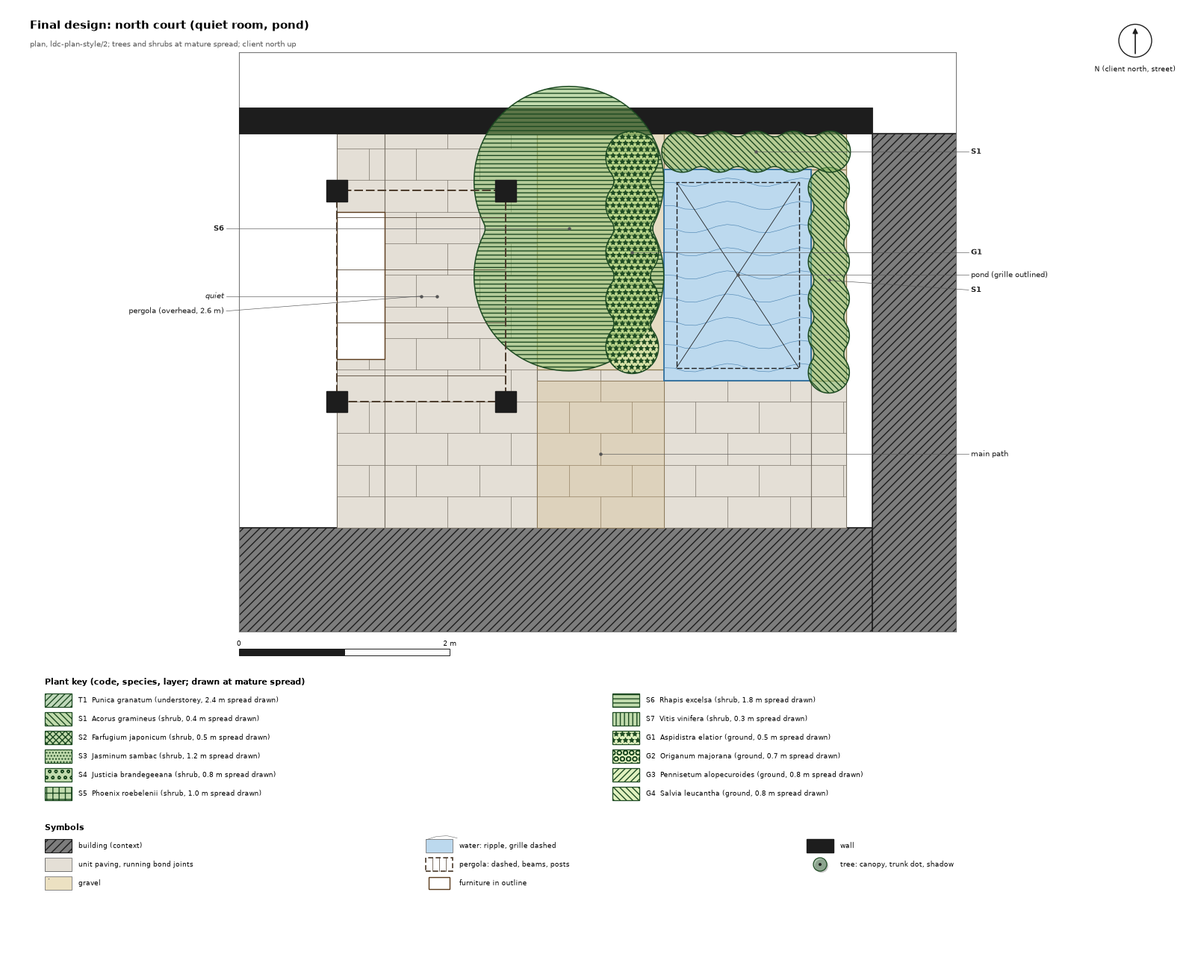
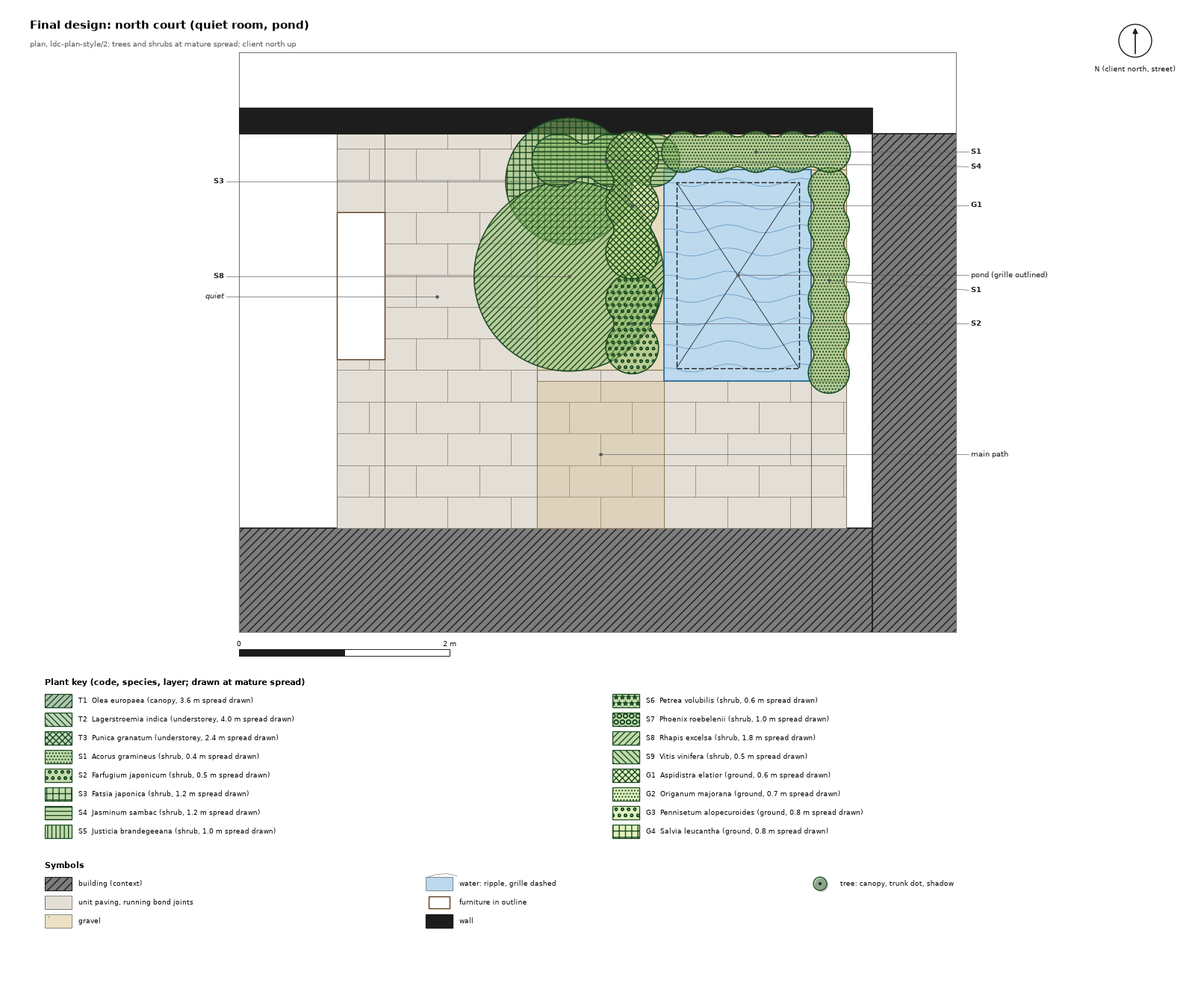
garden: report generator for shade trees, tests, lessons

diff --git a/src/archpipe/landscape/concept/final_report.py b/src/archpipe/landscape/concept/final_report.py
@@ -14,18 +14,19 @@ def main():
     d = json.load(open(OUT / "final.json"))
     m, f = d["metrics"], d["fire"]
     L = ["# Final garden design: concept B adapted (LDG round 2, 2026-11-22)", "",
-         "Client decisions applied: concept B adapted; shared gas fire pit on the west line; west screen tall except an opening at the pit; grape vine on the dining pergola; both ponds kept; "
+         "Client decisions applied: concept B adapted; shared gas fire pit on the west line; west screen tall except an opening at the pit; **round 3 (client 2026-11-22): trimmed shade trees instead of pergolas, deciduous preferred (sun in Dec-Feb welcome), layered planting everywhere**; both ponds kept; "
          "mirrored visualisation of the south garden on the sister plot (viewing only). Numbers below are generated from `final.json`; `layout-final.json` is the design, `layout-visualisation.json` is the mirror (excluded everywhere).", "",
          f"**Result: {len(d['hard_fails'])} hard failures.** Tally {d['tally']}. LDK `LS-FIRE-STRUCT` (2.0 m open-fire floor, a wood-fire bylaw) is reported as a warning for the pit and replaced by the manuals' own clearances (see Fire pit); "
          "the client's screen opening is recorded as a visible waiver (`LDG-PRIV-OPENING`). Critic findings are listed, not gated.", ""]
     L += ["## The design in one paragraph", "",
-          "South garden (5.71 x 9.32 m): the **social terrace** at the west. The flush gas fire pit (0.9 m envelope) is centred ON the west line; the 2.1 m screen stops 1.25 m from its edge on both sides, an opening of "
-          "3.4 m sized to the table's chairs that face the fire (ten at the extended table: 3.0 m long, 1.2 m clear). The dining table (8, extending to 10) sits 2.1 m from the pit under a louvred, non-combustible pergola carrying a **grape vine**; "
-          "the BBQ stand is 2 m from everything; a built-in bench (3 seats) and a quiet bench (2 seats) run along the rear wall under a second pergola; a 1.5 m deep planted mass with the pomegranate and a herb strip closes the east, so the **quiet room** (east yard: bench under a pergola facing a flush koi pond) lies behind it, reached along the house wall. "
-          "North court: the second **quiet room** (bench niche under a pergola, planted screen, flush koi pond with shade foliage). Both ponds are kept for now.", ""]
+          "South garden (5.71 x 9.32 m): the **social terrace** at the west. The flush gas fire pit (0.9 m envelope) is centred ON the west line; the 2.1 m screen stops 1.25 m from its edge on both sides (grape on the north stub, sambac jasmine on the south stub, each in a 1.3 m deep bed). "
+          "The BBQ stand place and a standing area sit between pit and table; the dining table (8, extending to 10) moved east to b 4.05-4.95 so that **one deciduous crape myrtle (pruned multi-stem head, 4.0 m, leaning toward the table) is its roof**; "
+          "the floor under both crowns is permeable gravel (LS-ROOTZONE keeps paving out of every dripline). A built-in bench (2 seats) and a quiet bench (2 seats) run along the rear wall under a pruned **evergreen olive** (year-round overhead privacy where winter sun is small anyway); "
+          "the pomegranate stays as the understorey fruit tree. A planted edge runs along the south wall (climbers on the wall face), a planted mass closes the east. "
+          "East yard: the quiet room (bench, flush koi pond) under a smaller pruned olive. North court: the second quiet room (bench niche, planted screen, flush koi pond with shade foliage); no tree fits there (see Layers). Both ponds are kept for now.", ""]
     L += ["## Fire pit on the west line", "",
           f"Position: centre at the west line (b 0.0), 2.8 m from the house face and 2.9 m from the rear fence. Screen opening a {d['fire']['opening_a'][0]}-{d['fire']['opening_a'][1]} m along the line; each screen end is {f['design_side_clearance_mm']} mm from the pit edge, "
-          f"nothing combustible (planting, vine, pergola, tree crown) is within {f['design_side_clearance_mm']} mm sideways or {f['design_overhead_clearance_mm']} mm overhead (measured straight-line to the burner, `LDG-FIRE-MANUAL`). The nearest pergola is 2.9 m away (3-D). "
+          f"nothing combustible (planting, tree crown) is within {f['design_side_clearance_mm']} mm sideways or {f['design_overhead_clearance_mm']} mm overhead (measured straight-line to the burner, `LDG-FIRE-MANUAL`). The nearest crown is the crape's, more than 3 m from the burner in plan and above 2.2 m. "
           "The pit straddles the boundary: the fixture needs the sister owner's agreement (client's matter). In the schedule: one shared flush gas pit, our share 50 % (`our_share`); the sister's seats exist only in the visualisation.", "",
           "### Shortlist: three gas burners with manuals that state clearances", ""]
     rows = []
@@ -38,7 +39,7 @@ def main():
     L += ["", "Not shortlisted: " + "; ".join(f"{a} ({b})" for a, b in f["rejected"]) + ".", "",
           "**Honest status.** No manual read states that the product may be installed flush with paving, and none states a walk-on load rating for a cover. The flush installation and the 15 kN cover (our specification, BS EN 124 A15 as the nearest class) are therefore "
           "**supplier or engineer approvals**, not certified facts. Only PTI is CSA (US/Canada) and Planika is CE (EU): no Egyptian approval was found for any product. The design clearances are the strictest figures in the shortlist (PTI 1219 mm side, MAD 2000 mm overhead), so "
-          "any of the three fits the same layout and the product decision stays open. The supersession is limited to the pit: the BBQ, planting and everything else keep the 2.0 m rule; house wall and rear fence are 2.35 and 2.46 m from the pit edge anyway.", ""]
+          "any of the three fits the same layout and the product decision stays open. The supersession applies to the pit and the BBQ stand only (the BBQ by its own manual, see Trade: BBQ); house wall and rear fence are 2.35 and 2.46 m from the pit edge anyway.", ""]
     w = d["wind"]
     L += ["### Wind: summer-evening wind runs toward the west (LDS), checked on the data", "",
           "Station TMYx Cairo West AP, sectors resolved against the site frame (client west = true bearing 200):", ""]
@@ -48,20 +49,62 @@ def main():
            + [["sister seat 2 m west of the pit (mirror)", f"{w['sister_seat_in_downwind_sector_pct']['all-year']} %", f"{w['sister_seat_in_downwind_sector_pct']['summer-evening-17-20 (Jun-Aug)']} %", f"{w['sister_seat_in_downwind_sector_pct']['winter-day-10-15 (Dec-Feb)']} %"]])
     L += ["", "Confirmed: in a summer evening 94 % of hours blow toward the west and our seats are in the plume 0.7-2.5 % of hours; **the sister's seats are downwind 80 % of the time**. A gas flame has little smoke, "
           "but the warm combustion gases go to them: that is a consequence for the sister owner to accept, stated here. In winter days only 62 % blow west (0.3 m/s mean westward component) and our seats are downwind 9-25 % of hours: weaker. Station-level wind, open terrain; no site measure or lee modelling (LDS gap W1).", ""]
-    g = d["grape"]
-    L += ["## Grape vine on the dining pergola: summer shade, winter bareness", "",
-          f"Foliage-level sun (2.4 m, 21 June, ray test against the enclosure): {g['leaf_level_sun_21jun_h']} h, so the full-sun class of *Vitis vinifera* is met at the leaves although the ground under the vine strip gets 2.5 h; the vine is planted at the rear fence foot (2 plants, 0.31 m strip) and trained up the fence and along the beams.", "",
-          f"Table seats, direct sun 10-15 h ({g['window']}): 21 June {g['summer']['open']} h open sky, **{g['summer']['leafed']} h under the leafed vine** (density 0.75, POLICY); 21 December {g['winter']['open']} h open sky, {g['winter']['bare']} h under the bare vine. "
-          "The winter figure does not change because the low winter sun (below 40 degrees) reaches the table from the sides, under the roof plane; the vine's bareness therefore costs and gains nothing for table sun at this geometry. What bareness does change is **overhead privacy**: with the vine bare and the louvres open "
-          f"the table is overlooked at {round(g['privacy_table']['table']['winter_louvres_open'] * 100)} % of today's eye points (limit 30 %), with leaf or closed louvres {round(g['privacy_table']['table']['summer'] * 100)} %. "
-          "The pergola is therefore a **non-combustible louvred frame with the vine on it** (LDB builds louvres): the vine shades in summer, and in winter the louvres are closed when overlooked (opaque while closed: LDK GAP-OVERLOOK-ABOVE assumption). Climber density figures are POLICY (no source gives a leaf density).", "",
-          "**Sources for the deciduous period** (status honest: the habit is sourced, the calendar is a GAP):", ""]
-    L += [f"- {s['id']}: {s['url']} : \"{s['quote']}\" ({s['status']})" for s in d["grape_sources"]]
-    L += ["", "Fire: grape is rated 'high flammability' by NCSU; it is outside the 1.25 m side and 2.0 m overhead clearances (nearest foliage 2.9 m in 3-D).", ""]
-    L += ["## West screen climber: jasmine, ivy not scheduled", "",
-          "Choice per section: **both screen stubs (north 1.1 m, south 1.2 m) carry Jasminum sambac** on the garden face (scent at the seats; the species is in the sourced pool as viable with conditions: frost 1 C, afternoon shade, size GAP). It is **not drawable yet**, so it is drawn as a labelled STAND-IN. "
-          "English ivy (Hedera helix) is **not used**: its LDL record is `unverified` (heat tolerance GAP, invasive flag in NC), so it cannot enter the schedule; the Fab/Megascans ivy wall panel is graded B, but its glTF is not on this machine ('graded asset file missing'). "
-          "If LDL closes the ivy heat GAP, ivy is the drawable alternative for the south stub (shade side, no scent needed). No climber stands within the pit clearance: both stubs end 1.25 m from the pit edge.", ""]
+    sd = d["shade"]
+    ba = d["before_after"]
+    L += ["## Shade trees instead of pergolas", "",
+          "Client 2026-11-22: remove the pergolas, use trimmed shade trees, evergreen NOT required (\"we don't mind the sun in Dec to Feb\"): deciduous or semi-deciduous trees that are bare from about December to February and in leaf March to November are preferred; olive only where year-round screening matters more.", "",
+          "### Candidates compared on data (LDL plants.json figures; NHBC distance = 0.5 / 0.75 / 1.25 x height for low / moderate / high water demand, LS-TREE-BUILDING)", ""]
+    rows = []
+    for t in d["trees"]:
+        if t.get("in_pool") is False:
+            rows.append([t["name"], "not in the LDL pool", "-", "-", "-", "-", "-", t["decision"]])
+        else:
+            pr = t.get("pruned")
+            rows.append([t["name"], t["habit"], f"{t['height_m']} m; {t['spread_m'][0]}-{t['spread_m'][1]} m", f"{t['roots']}; alkaline {t['alkaline']}", f"{t['nhbc_need_species_height_m']} m" + (f" (pruned {pr['height_m']} m: {pr['nhbc_need_m']} m)" if pr else ""),
+                         t["graded_best"] or "-", "drawable" if t["drawable"] else "stand-in", t["decision"]])
+    L += _tbl(["tree", "habit", "height; spread", "roots; soil", "NHBC distance needed", "best asset grade", "draw", "decision and reason"], rows)
+    L += ["", "**Leaf-drop and leaf-out months for a Cairo-like climate: a GAP for every species.** The searches of 2026-11-22 found habit statements (deciduous, semi-deciduous, evergreen) and one southern-hemisphere calendar that does not transfer, no Egypt or Cairo calendar. "
+          "The design therefore uses the client's own months (bare December-February, in leaf March-November) as a stated ASSUMPTION; before purchase a Cairo nursery should confirm the crape myrtle's leaf-out month. Evidence per species:", ""]
+    L += [f"- {t['name']}: {t['leaf_evidence']}" for t in d["trees"] if t.get("leaf_evidence")]
+    L += ["", "### Where each pick stands, and why (per location)", "",
+          "- **Dining (south): crape myrtle** (Lagerstroemia indica), deciduous, graded B asset. 4.0 m pruned head, 4.5 m high, trunk 3.45 m from the house (needs 3.38 m at the pruned height: the NHBC pass depends on the pruning being kept; at its species height of 9.1 m it would need 6.8 m). "
+          "Dripline kept free of paving (gravel). Roots benign.",
+          "- **Quiet bench and rear bench (south): olive** (evergreen, stand-in asset grade C). Chosen over a second deciduous tree because winter sun is already 1.6-1.8 h there (the sun-poor corner of the garden) and the quiet corner is where privacy matters year-round: with the olive it is overlooked at "
+          f"{round(sd['privacy_table']['s-bench-quiet']['winter'] * 100)} % of today's in winter; with no tree {round(sd['privacy_table']['s-bench-quiet']['no_cover'] * 100)} %.",
+          "- **East yard bench: olive**, smaller head (2.6 m). Only an olive fits: NHBC low water 0.5 x 4.5 m = 2.25 m against 2.3 m available from the house wall; a pomegranate (2.8 m) or a crape (3.4 m) would need more.",
+          "- **North court: no tree.** 3.74 m deep, 1.3 h of June sun, a pond in the middle, house wall on one side; the clipped Ficus (aggressive roots, needs 6 m from pond and building) and every other candidate fail one of these. Overhead privacy at its bench is inside the 75 % limit for that room without a canopy.", "",
+          "### Pruning is a maintenance specification", "",
+          "Species figures stay in LDL; the layout carries the pruned size. Regimes (`TREE_PRUNING` in final.py; each tree carries its regime as `pruning`):", "",
+          "- Crape myrtle: multi-stem (3-5 stems), clear trunk to 2.2 m, head 4.0 m trained to lean up to 1.3 m toward the table, structural thinning every January-February while bare, cut back to previous heads (never flat topping), base suckers removed twice a year. **Source:** UF/IFAS EP399 \"What is a crape murder?\" (hard pruning and pollarding make vigorous sprouts and, once started, need annual pruning; blooms fall with the size of branch removed). Status: read as a search excerpt, the page itself was not fetched; tolerance of a held 4.0 m head is INFERENCE from \"pollarding keeps a plant at a set height\".",
+          "- Olive (south 3.6 m, east yard 2.6 m): pruned multi-stem umbrella, thinned each late winter. **Source: GAP** (no source on olive tolerance of a held umbrella head was found); the olive picks are conditional on a nursery or arborist confirming it. `LDG-PRUNE` fails any pruned tree with no declared regime.",
+          "- Clipped Ficus microcarpa 'Nitida': trade sources attest tolerance of shearing; not used, so not relied on.", "",
+          "### Summer shade and winter sun at the seats (leaf-on and leaf-off; ray test against the enclosure; crown density from the LDC CROWN assumption: evergreen 0.8, leaf-on 0.7, bare 0.15; no held source gives a leaf density)", ""]
+    L += _tbl(["seat", "21 Jun 10-15 h: open sky", "leafed crown", "21 Dec 10-15 h: open sky", "bare crown", "if the crown kept its leaves"],
+              [[k, v["summer_open_sky_h"], v["summer_leaf_on_h"], v["winter_open_sky_h"], v["winter_leaf_off_h"], v["winter_if_leaf_on_h"]] for k, v in sd["season_table"].items()])
+    L += ["", "Reading: the table is the **winter-sun sitting place**, with 3.1 h of the 5 h window outside every crown, and the place where the crape halves the summer sun (3.6 to 1.2 h). Evening 17-20 h on the DST clock is sun-free at every seat from the structure alone (0 h in the LDS layer), so the leaf-on state costs nothing there. "
+          "The crape sits to the east and above the table, so its leaves make no difference to the table's December sun (3.1 h either way): at this geometry deciduous versus evergreen only matters at the quiet bench (1.6 h bare against 1.2 h leafed). The east yard bench has 0.25 h of December sun whatever the tree does.", "",
+          "### Overhead privacy from the apartment above, at each seat (share of today's overlooking that remains)", ""]
+    L += _tbl(["seat", "no tree", "summer, leafed", "winter, bare crowns", "limit"],
+              [[k, f"{round(v['no_cover'] * 100)} %", f"{round(v['summer'] * 100)} %", f"{round(v['winter'] * 100)} %", f"{round(v['limit'] * 100)} %"] for k, v in sd["privacy_table"].items()])
+    L += ["", "The canopy counts as cover only where a crown stands over the seat (crown disc as 0.25 m cells; leafed in summer, evergreen only in winter). **Summer** is hard (every seat inside its limit). **Winter** is the cost of deciduous: the table and the rear bench go back to the 'no tree' figure while the crape is bare, reported as `LDG-PRIV-WINTER` warnings with the figures; "
+          "the client accepted winter sun, but a winter lunch is overlooked more than a summer one. The olives keep the quiet bench and the east yard bench covered all year. Fire pit: no crown within 2.0 m overhead (`LDG-FIRE-MANUAL`).", "",
+          "### Trade: the BBQ stand place", "",
+          "With two shade trees, the beds and the seating, no position in the garden keeps the LDK 2.0 m open-fire floor from planting, crowns and the house. The BBQ is a small portable gas grill (brief), so its clearance follows a manual: **Weber Q1200 owner's manual** (ManualsLib page 2; the Weber PDF is an image without text): "
+          "\"Keep the grill a minimum of 24 inches away from recreational vehicles and combustible materials like wood, paper, cloth and plastic.\" and \"Do not use in a garage, building, breezeway, tent, any other enclosed area or beneath overhead combustible construction.\" "
+          "Design: 650 mm to any combustible, structure or planting and 300 mm outside every crown projection (`LDG-BBQ-MANUAL`; the LDK floor is still reported). The product is NOT chosen: the figure stands in for any small gas grill and is re-checked at product choice. **Cost: the BBQ moved to the west terrace between the pit and the table and the table moved 1.4 m east; seated bench places fell from 5 to 4 in the lounge/rear bench count (3 to 2).**", "",
+          "## Climbers, layers and drifts", "",
+          "Climbers on every screen and wall face (a climber within 0.9 m of the face; the house facade stays clear for the fire items):", ""]
+    L += _tbl(["face", "climbers"], [[k, ", ".join(v) or "NONE"] for k, v in d["climber_faces"].items()])
+    L += ["", "Grape (Vitis vinifera, deciduous) stands on the north screen stub: it moved from the pergola to the screen as a climber (the client keeps the fruit); NCSU rates it high flammability, and it stays outside the 1.25 m side clearance of the pit. "
+          "Sambac jasmine, Petrea and Jasminum grandiflorum cover the south stub, the rear wall and the east fence. English ivy is still **not used** (heat tolerance GAP in LDL); creeping fig, star jasmine and bougainvillea climber panels were not yet graded on this branch, so every climber is a labelled stand-in or a genus mass.", "",
+          "### Layer table per garden room (plants counted from the layout; classification by LDL layer and height)", ""]
+    L += _tbl(["room", "canopy", "understorey", "shrub", "perennial", "groundcover", "climber", "missing"],
+              [[r] + [f"{v[k]['plants']} ({len(v[k]['species'])} sp)" for k in ("canopy", "understorey", "shrub", "perennial", "groundcover", "climber")] + [", ".join(v["missing"]) or "none"] for r, v in d["layers"].items()])
+    L += ["", "North court has no canopy tree for the reasons above. "
+          "**Precedent comparison (LDP frozen ranges, south garden):** layer shares are a GAP in LDP (fewer than 6 usable gardens), so there is no layer range to compare against; hard share and trees per 100 m2 have ranges (below). "
+          "**Advisory pattern rules (qualitative, no score):** AD-COMP-TREE-CANOPY (a shade tree as the roof of a gathering place with a seat beneath: crape over the table, olive over the quiet bench); AD-COMP-LAYERING (foreground, middle, background in layers: the beds above); "
+          "AD-APL-246 Climbing Plants (climbers on sunny walls and trellises: rear wall, east fence, screen stubs); AD-APL-170 Fruit Trees (a group, not a single tree: only a pomegranate and a grape, a thin answer); AD-EXT-OVERLOOK (canopy does the work a hedge cannot against the apartment above: summer figures above); "
+          "AD-EXT-SHADE-PLACEMENT (deciduous trees to the east of the use area: the crape stands east of the table); AD-EXT-POND-SITING (no trees over ponds: the east olive's crown reaches the pond end, evergreen with small leaf fall; flagged); AD-EXT-TREE-BARRIER (no root barrier is relied on, only distance); AD-LECH-SHADE (trees chosen by compass side: the sun-path result above).", ""]
     L += ["## Ponds", "", "Section fixed to the real width (the 1:4 slope applies to the entry margin, not to the 900 mm trench: a 1:4 slope to 900 mm needs 3.6 m of run per side, LDK GAP-POND-EDGE-SAFETY):", "",
           "entry slope 1:4 over 150 mm = 0.6 m, safety shelf 0.3 m at 150 mm below the water (rigid grille rests on it), trench 0.5 m wide, 900 mm below the water, freeboard 150 mm; far side a vertical wall with marginal planting. Total 1.4 m = the pond width.", ""]
     ps = d["pond_sun"]
@@ -77,32 +120,34 @@ def main():
           "`assert_excluded` guards the design layout; `merge_for_view` is the only consumer (images). It is not in the checks, the schedule, the programme table, the critics or the quantities. Every image that shows it carries a red 'VISUALISATION ONLY' band above and below, a tinted sister half (plan) and a labelled zone.", ""]
     L += ["## LDB layout findings: fixed (each with its guard)", ""]
     L += _tbl(["LDB finding", "fix", "guard"], [
-        ["tree inside a pergola footprint", "pomegranate moved to (3.15, 8.4); pergolas keep 1.0 m from any tree", "`LDG-TREE-PERGOLA` (+negative test)"],
+        ["tree inside a pergola footprint", "pergolas removed (round 3); the check stays and is quiet", "`LDG-TREE-PERGOLA` (+negative test)"],
         ["plant inside the pot", "pot moved to the path-side corner; no plant row crosses it", "`LDG-PLANT-SOLID` (+negative)"],
         ["pot 0.31 m from the fence", "pot centre 1.37 m from the nearest wall (policy 1.3 m)", "`LDG-POT` (+negative)"],
         ["1:4 pond edge cannot fit 1.0 m", "section split: 1:4 entry margin + shelf + trench, 1.4 m wide ponds", "`LDG-POND-SECTION` (+negative)"],
         ["ids repeated across gardens", "every id prefixed s-/n-/e-; walls renamed wall-*", "`LDG-IDS` (+negative)"],
         ["6.2 m2 north court and 8.7 m2 gravel zone with no surface", "every garden room fully covered; a gravel zone is exactly the gravel", "`LDG-SURFACE`, `LDG-GRAVEL-ZONE` (+negatives) and the LDB build: 0 `ld-ground` objects"],
         ["polyline paths not built", "all paths are rectangles (LDB builds rects only)", "LDB build: 0 warnings"],
-        ["chairs clip at pergola corner posts", "grape pergola posts outside the chair ring (LDB `avoid`)", "LDB `clip` check: 0 fails, closed and open pit"]])
+        ["chairs clip at pergola corner posts", "no pergola posts remain", "LDB `clip` check: 0 fails, closed and open pit"]])
     L += ["", f"LDB build of this layout (age 3): {d['build_checks']['closed']} (closed pit); warnings {d['build_warnings']}.", ""]
     L += ["## Programme: achieved versus required", ""]
     L += _tbl(["item", "achieved", "required", "status", "source"], [[r["item"], r["achieved"], r["required"], r["status"], r["source"]] for r in d["programme"]])
-    L += ["", f"Precedent ranges (LDP frozen): south hard share {m['hard_share']} against 0.52-0.82 (**above the range**: the terrace is paved for 22 standing + 8 seated; the BBQ and fire clearances keep planting 2.0 m away); canopy trees {m['trees_per_100m2_south']} per 100 m2 (range 1.56-3.26, inside).", ""]
+    L += ["", f"Precedent ranges (LDP frozen): south hard share **{ba['hard_share']['before']} before -> {ba['hard_share']['after']} after** against 0.52-0.82 (inside; gravel counts as hard); trees {m['trees_per_100m2_south']} per 100 m2 in the south garden (range 1.56-3.26: **above**: the three trees are two crowns and the small pomegranate in 53 m2, the cost of replacing two pergolas by trees; the east yard olive is not counted); standing at an event {m['standing_at_1.3m2']} (was 22).", ""]
     L += ["## Waivers and warnings carried (nothing is silently suppressed)", ""]
     for r in d["checks"]:
         if r["status"] == "warn":
             L.append(f"- **{r['criterion']}** {r['subject']}: {r['message']}")
-    L += ["", "## Critic findings (LDC, uncalibrated: not a gate)", "", f"Counts {d['critic_counts']}; the grape pergola is critiqued twice (leafed vine; bare vine for C-WINTER-SUN only).", ""]
+    L += ["", "## Critic findings (LDC, uncalibrated: not a gate)", "", f"Counts {d['critic_counts']}; trees carry their habit, so the critics use the leafed density in summer windows and the bare density in the winter window.", ""]
     for c in d["critic_findings"]:
         L.append(f"- {c['critic']} {c['criterion']} ({c['status']}, {c['severity']}): {c['evidence']}")
-    L += ["", "Reading them: C-PRIVACY (6 of 15 seats) is the screen opening again (the critic cuts sight lines with the two stubs only); H-SUN-FIT reads the ground sun for the grape, not the 5.6 h at foliage level; "
+    L += ["", "Reading them: C-PRIVACY (6 of 15 seats) is the screen opening again (the critic cuts sight lines with the two stubs only); "
           "A-ENCLOSURE on the dining room (37 %: the west side is the opening) and the two quiet rooms (the critic counts a room's perimeter against walls, buildings, screens and planting of 1.8 m; the quiet benches are backed by a 4 m fence the critic did not credit, as in pass 2) and A-FOCAL "
-          "(8 focal elements, counted: pit, two ponds, tree, four pergolas) are conventions of the uncalibrated architect critic; C-POND-SUN reads the first pond (north court, 1.69 h) only: the east pond gets 4.45 h.", ""]
+          "(focal elements counted: pit, two ponds, trees) are conventions of the uncalibrated architect critic; C-POND-SUN reads the first pond (north court, 1.69 h) only: the east pond gets 4.45 h.", ""]
     L += ["## Planting schedule (drawable versus stand-in)", ""]
     L += _tbl(["zone", "bed", "species", "count", "layer", "verdict", "status", "conditions"],
               [[s["zone"], s["bed"], s["species"], s["count"], s["layer"], s["verdict"], s["status"], "; ".join(s["conditions"])[:120]] for s in d["schedule"]])
-    L += ["", "Drawable on this machine means a graded A/B glTF file is present; the Fab/Megascans species graded in LDL pass 5 are not present here as files, so only Phoenix roebelenii, Rhapis excelsa, Punica granatum (and frangipani by genus) draw as plants. Everything else is a labelled generic stand-in.", ""]
+    L += ["", "Drawable on this machine means a graded A/B glTF file is present; the Fab/Megascans species graded by LDL are not present here as files ("graded asset file missing on this machine"), so only the species counted below draw as plants. Everything else is a labelled generic stand-in.", "",
+          "Plants drawable versus stand-in, before -> after: " + (f"drawable {ba['plant_counts']['before']['drawable']} -> {ba['plant_counts']['after']['drawable']}, stand-in {ba['plant_counts']['before']['stand_in']} -> {ba['plant_counts']['after']['stand_in']}; species drawable {ba['plant_counts']['before']['species_drawable']} of {ba['plant_counts']['before']['species_total']} -> {ba['plant_counts']['after']['species_drawable']} of {ba['plant_counts']['after']['species_total']}." if ba["plant_counts"]["before"] else str(ba["plant_counts"]["after"])),
+          "The olives are stand-ins (grade C asset); the crape myrtle draws when its glTF is present.",", ""]
     try:
         L += ["## Images (looked at)", "", open(OUT / "IMAGES.md").read(), ""]
     except FileNotFoundError:

diff --git a/tests/landscape/concept/test_final.py b/tests/landscape/concept/test_final.py
@@ -22,8 +22,8 @@ class Design(unittest.TestCase):
         pit = next(f for f in L0["features"] if f["kind"] == "firepit")
         self.assertAlmostEqual(pit["center"][1], -29.916, 3)
         sup = K.superseded(RES)
-        self.assertEqual(len(sup), 1)                         # LDK 2.0 m floor still reported, never dropped
-        self.assertEqual(sup[0].subject, "s-firepit")
+        self.assertEqual({r.subject for r in sup}, {"s-firepit", "s-bbq"})                         # LDK 2.0 m floor still reported, never dropped; the BBQ is judged by its manual (LDG-BBQ-MANUAL)
+        sup = [r for r in sup if r.subject == "s-firepit"]
         self.assertIn(sup[0], [r for r in RES])
         self.assertNotIn(id(sup[0]), {id(r) for r in K.hard_fails(RES)})
 
@@ -44,9 +44,36 @@ class Design(unittest.TestCase):
         for r in K.pond_section_check(L0):
             self.assertEqual(r.status, "pass", r.message)
 
-    def test_grape_summer_shade_winter_unchanged(self):
-        self.assertLessEqual(GDATA["summer"]["leafed"], 0.5 * GDATA["summer"]["open"])
-        self.assertGreaterEqual(GDATA["winter"]["bare"], 0.8 * GDATA["winter"]["open"])
+    def test_no_pergola_and_shade_trees_instead(self):
+        self.assertEqual(L0["canopies"], [])
+        self.assertTrue({"s-tree-crape", "s-tree-olive", "e-tree-olive"} <= {t["id"] for t in L0["trees"]})
+
+    def test_crape_leaf_on_halves_summer_sun_and_bare_keeps_winter_sun(self):
+        t = GDATA["season_table"]["table"]
+        self.assertLessEqual(t["summer_leaf_on_h"], 0.6 * t["summer_open_sky_h"])
+        self.assertGreaterEqual(t["winter_leaf_off_h"], 0.8 * t["winter_open_sky_h"])
+        self.assertGreaterEqual(max(v["winter_leaf_off_h"] for v in GDATA["season_table"].values()), K.WINTER_SEAT_MIN_H)
+
+    def test_bare_deciduous_crown_is_not_winter_cover_but_the_evergreen_is(self):
+        win = K.crown_cells(L0, "winter")
+        summ = K.crown_cells(L0, "summer")
+        self.assertGreater(len(summ), len(win))
+        crape = next(c for c in K.crowns(L0) if c["id"] == "s-tree-crape")
+        self.assertFalse(crape["evergreen"])
+        self.assertTrue(any(c["evergreen"] for c in K.crowns(L0)))
+
+    def test_hard_share_inside_precedent_range(self):
+        h = R.metrics(L0)["hard_share"]
+        self.assertGreaterEqual(h, 0.52)
+        self.assertLessEqual(h, 0.78)
+
+    def test_layers_every_room_and_climbers_on_every_face(self):
+        from archpipe.landscape.concept import final_trees as FT
+        lt = FT.layer_table(L0)
+        self.assertEqual(lt["south garden"]["missing"], [])
+        self.assertEqual(lt["east yard"]["missing"], [])
+        self.assertEqual(lt["north court"]["missing"], ["canopy"])         # no tree fits the 3.7 m court (NHBC, pond, 1.3 h sun): stated in the report
+        self.assertTrue(all(FT.climber_faces(L0).values()), FT.climber_faces(L0))
 
     def test_wind_summer_evening_runs_west_and_our_seats_are_upwind(self):
         tw, per, mir = K.wind_check(L0)
@@ -91,8 +118,10 @@ class Negatives(unittest.TestCase):
 
     def test_tree_inside_pergola_fails(self):
         L = fresh()
-        L["trees"][0]["center"] = [(L["canopies"][1]["rect"][0] + L["canopies"][1]["rect"][2]) / 2, (L["canopies"][1]["rect"][1] + L["canopies"][1]["rect"][3]) / 2]
+        t = L["trees"][0]
+        L["canopies"].append({"id": "x", "rect": [t["center"][0] - 0.5, t["center"][1] - 0.5, t["center"][0] + 0.5, t["center"][1] + 0.5], "kind": "pergola", "height_m": 2.7, "shade_fraction": 0.6})
         self.assertEqual(K.tree_pergola_check(L).status, "fail")
+        self.assertEqual(K.tree_pergola_check(L0).status, "pass")
 
     def test_plant_inside_solid_fails(self):
         L = fresh()
@@ -128,14 +157,56 @@ class Negatives(unittest.TestCase):
         p["width_m"] = 1.0
         self.assertTrue(any(r.status == "fail" for r in K.pond_section_check(L)))
 
-    def test_vine_with_no_summer_leaf_fails_season_check(self):
-        old = F.GRAPE["summer_density"]
+    def test_crown_with_no_leaf_fails_summer_shade(self):
+        old = F.CROWN["deciduous_on"]
         try:
-            F.GRAPE["summer_density"] = 0.0
-            r, _ = K.grape_check(L0)
-            self.assertEqual(r.status, "fail")
+            F.CROWN["deciduous_on"] = 0.0
+            r, _ = K.season_check(L0)
+            self.assertEqual(next(x for x in r if x.criterion == "LDG-SHADE-SUMMER").status, "fail")
         finally:
-            F.GRAPE["summer_density"] = old
+            F.CROWN["deciduous_on"] = old
+
+    def test_without_the_trees_summer_privacy_fails_at_the_table(self):
+        L = fresh()
+        L["trees"] = [t for t in L["trees"] if t["center"][0] < 20 or t["id"] == "s-tree-punica"]
+        r, _ = K.privacy_checks(L, ROOMS)
+        self.assertTrue(any(x.criterion == "LDG-PRIV" and x.status == "fail" for x in r))
+        r0, _ = K.privacy_checks(L0, ROOMS)
+        self.assertFalse(any(x.criterion == "LDG-PRIV" and x.status == "fail" for x in r0))
+
+    def test_winter_privacy_loss_of_a_bare_crown_is_a_warning_not_hidden(self):
+        r, tab = K.privacy_checks(L0, ROOMS)
+        self.assertTrue(any(x.criterion == "LDG-PRIV-WINTER" and x.status == "warn" for x in r))
+        self.assertGreater(tab["table"]["winter"], tab["table"]["summer"])
+
+    def test_aggressive_roots_near_pond_fail_and_far_pass(self):
+        L = fresh()
+        t = next(t for t in L["trees"] if t["id"] == "e-tree-olive")
+        t["species"] = "ficus_microcarpa"
+        self.assertTrue(any(x.criterion == "LDG-ROOTS" and x.status == "fail" for x in K.tree_site_checks(L)))
+        self.assertTrue(all(x.status == "pass" for x in K.tree_site_checks(L0)))
+
+    def test_pruned_tree_without_a_regime_fails(self):
+        L = fresh()
+        next(t for t in L["trees"] if t.get("pruned"))["pruning"] = ""
+        self.assertTrue(any(x.criterion == "LDG-PRUNE" and x.status == "fail" for x in K.tree_site_checks(L)))
+
+    def test_bbq_under_a_crown_or_against_planting_fails(self):
+        self.assertEqual(K.bbq_manual_check(L0).status, "pass")
+        L = fresh()
+        c = next(t for t in L["trees"] if t["id"] == "s-tree-crape")["crown_center"]
+        bq = next(f for f in L["features"] if f["kind"] == "bbq")
+        bq["rect"] = [c[0] - 0.25, c[1] - 0.25, c[0] + 0.25, c[1] + 0.25]
+        self.assertEqual(K.bbq_manual_check(L).status, "fail")
+
+    def test_winter_seat_floor_fails_when_not_met(self):
+        old = K.WINTER_SEAT_MIN_H
+        try:
+            K.WINTER_SEAT_MIN_H = 9.0
+            r, _ = K.season_check(L0)
+            self.assertEqual(next(x for x in r if x.criterion == "LDG-WINTER-SEAT").status, "fail")
+        finally:
+            K.WINTER_SEAT_MIN_H = old
 
 
 class Visualisation(unittest.TestCase):

diff --git a/src/archpipe/landscape/concept/final.py b/src/archpipe/landscape/concept/final.py
@@ -143,7 +143,7 @@ def south(p=PAR):
     bed(f, "s-bed-wall-b", wr2, row(wr2, "x", 1.0, ["justicia_brandegeeana"], 0.7, run=3, how="min") + row(wr2, "x", 0.55, ["rhapis_excelsa"], 1.4, run=1, how="min")
         + row(wr2, "y", 0.2, ["aspidistra_elatior"], 0.45, run=6, how="min") , "wall-climber", trace=("U-S-DINE", "LS-HYDROZONE"))
     w3 = RM(*wall3)
-    bed(f, "s-bed-wall-c", w3, [entry("petrea_volubilis", P(5.55, 3.7 + i * 0.9), 0.5, "shrub") for i in range(3)] + [entry("jasminum_sambac", P(5.55, 4.15 + i * 0.9), 0.5, "shrub") for i in range(2)], "wall-climber", trace=("U-S-DINE", "LS-HYDROZONE"))
+    bed(f, "s-bed-wall-c", w3, [entry("petrea_volubilis", P(5.55, 3.6 + i * 0.7), 0.5, "shrub") for i in range(3)] + [entry("jasminum_sambac", P(5.55, 3.95 + i * 0.7), 0.5, "shrub") for i in range(2)], "wall-climber", trace=("U-S-DINE", "LS-HYDROZONE"))
     pk = RM(*pocket)
     bed(f, "s-bed-pocket", pk, row(pk, "x", 0.55, ["aspidistra_elatior", "farfugium_japonicum"], 0.45, run=3, how="min") , "strip", trace=("D-SHADE-OVER-SUN", "LS-HYDROZONE"))
     f["meta"].update(pit=PIT, opening_a=OPEN_A)

diff --git a/docs/lessons/LDG.md b/docs/lessons/LDG.md
@@ -20,3 +20,12 @@
 18. **The zone-priority defect of pass 2 (lesson 8) came back** (dining zone over the rear bench: U-GATHER-GROUPS "lounge seats 0"). Lesson 8 had only prose. Guard added now: `LDG-ZONE-CLASS` + `test_dining_zone_swallowing_the_rear_bench_fails`.
 19. **LDB findings are defects of the layout, so each got an automatic layout guard** (tree in pergola, plant in solid, pot at fence, pond section, duplicate ids, undeclared surface, gravel zone over paving), proven on the real defect (the LDB concept A numbers) in `tests/landscape/concept/test_final.py`, and the LDB build itself is run in the tests (`test_build_lane_finds_no_clip_gap_or_warning`).
 20. **A tool run queued behind other lanes' GPU jobs looks like a hang.** The massing job sat `queued` for tens of minutes behind other lanes; check `~/archpipe/queue/jobs/<id>/status.json` before assuming a fault, and render plans (CPU) first.
+
+## Round 3 (shade trees instead of pergolas)
+21. **Removing a roof does not remove the roof's duties: privacy, shade and the BBQ moved with it.** The pergolas gave 100 % overhead cover; one tree gave 40-60 % and the first layout failed table, rear bench, quiet bench and east bench privacy. Guard: `LDG-PRIV` summer is hard per seat with the crown as 0.25 m cells (`crown_cells`), `test_without_the_trees_summer_privacy_fails_at_the_table`, and the privacy table (no tree / summer / winter) is in the report.
+22. **A tree's rules are three-dimensional but the LDK rules are plan-only.** Crowns count as combustible planting (LS-FIRE-STRUCT 2.0 m) and fill the paving dripline (LS-ROOTZONE): with the trees in, no BBQ position existed and every paved square in a dripline failed. Resolved by stating the BBQ's own manual (`LDG-BBQ-MANUAL`, Weber Q1200, 24 in; not beneath overhead construction; product not chosen) and by gravel floors under the crowns. Guard: `test_bbq_under_a_crown_or_against_planting_fails`, `LDG-GRAVEL-ZONE`, `LS-ROOTZONE` in the hard list.
+23. **A pruned crown is a maintenance specification, not a species fact, so the layout carries it with its regime and source status.** NHBC passes for the crape only at 4.5 m (3.38 m needed against 3.45 m), not at the species 9.1 m (6.8 m). Guard: `LDG-PRUNE` fails a pruned tree with no regime (`test_pruned_tree_without_a_regime_fails`); the olive's pruning source is a stated GAP.
+24. **A leaning crown is a design device only if every check reads the crown, not the trunk.** The privacy, fire, spread and sun checks use `crown_center`; the LDK rules and the LDC critics read the trunk (conservative for fire and rootzone, non-conservative for the critics' cover). Not hidden: the critics are report-only.
+25. **Clearance rules couple to the table's extension.** Moving the table to clear the BBQ broke the 10-seat extension (900 mm to the wall bed, then 1060 mm to the bench). Found by `test_dining_8_extends_to_10_not_12`, which exists because the extension is a client decision; fixed by a 0.31 m wall strip where the table reaches and a shorter rear bench.
+26. **Cairo leaf-drop months were a search miss, not a fact.** Four searches gave habit statements only; the months stay a GAP and the client's Dec-Feb is an assumption in the report. Guard: `final_trees.PHENO` carries the evidence string per species and the report prints it.
+27. **The tree-spread check assumed one garden box.** The east yard olive (x 21.4) was read as a south-garden tree and failed LDG-SPREAD; the check now knows the yard's own walls. Guard: the east tree is in `test_no_pergola_and_shade_trees_instead` and the hard-fail test.
